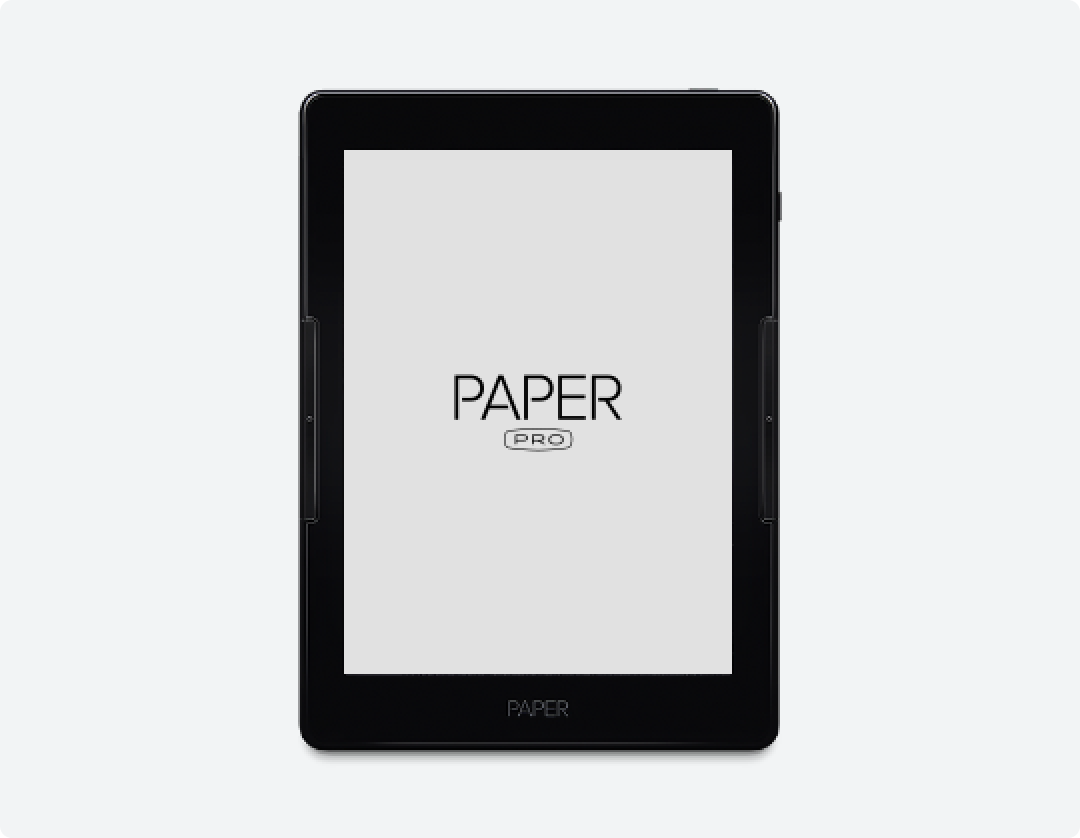
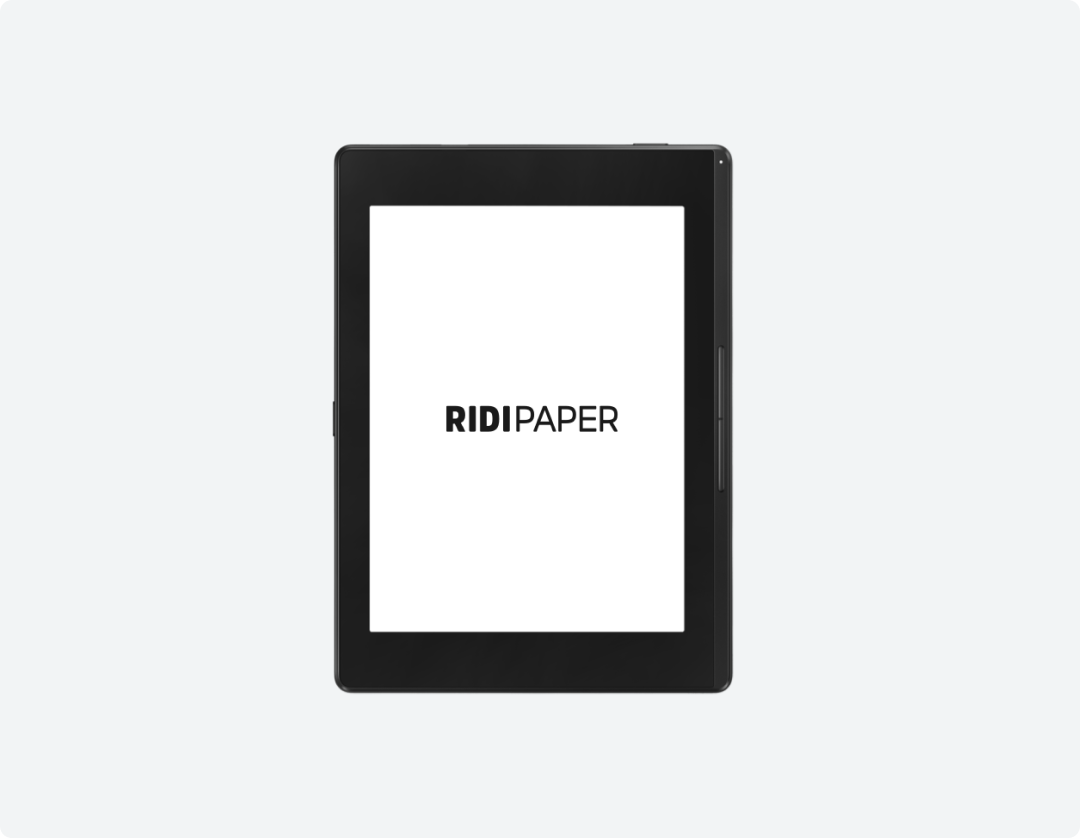
메인 수정
- 리디페이퍼로 이미지 수정
- 메인 메세지 keep-all 속성 추가

diff --git a/assets/css/base.css b/assets/css/base.css
@@ -365,6 +365,7 @@ ol {
   color: #fff;
   line-height: 1.4em;
   text-rendering: optimizeLegibility;
+  word-break: keep-all;
 }
 @media only screen and (min-width : 768px) and (max-width : 1023px) {
   .intro-header .site-heading h1,

diff --git a/assets/less/components/header.less b/assets/less/components/header.less
@@ -53,6 +53,7 @@
       color: @white;
       line-height: 1.4em;
       text-rendering: optimizeLegibility;
+      word-break: keep-all;
       @media @queries_md {
         font-size: 58px
       }
